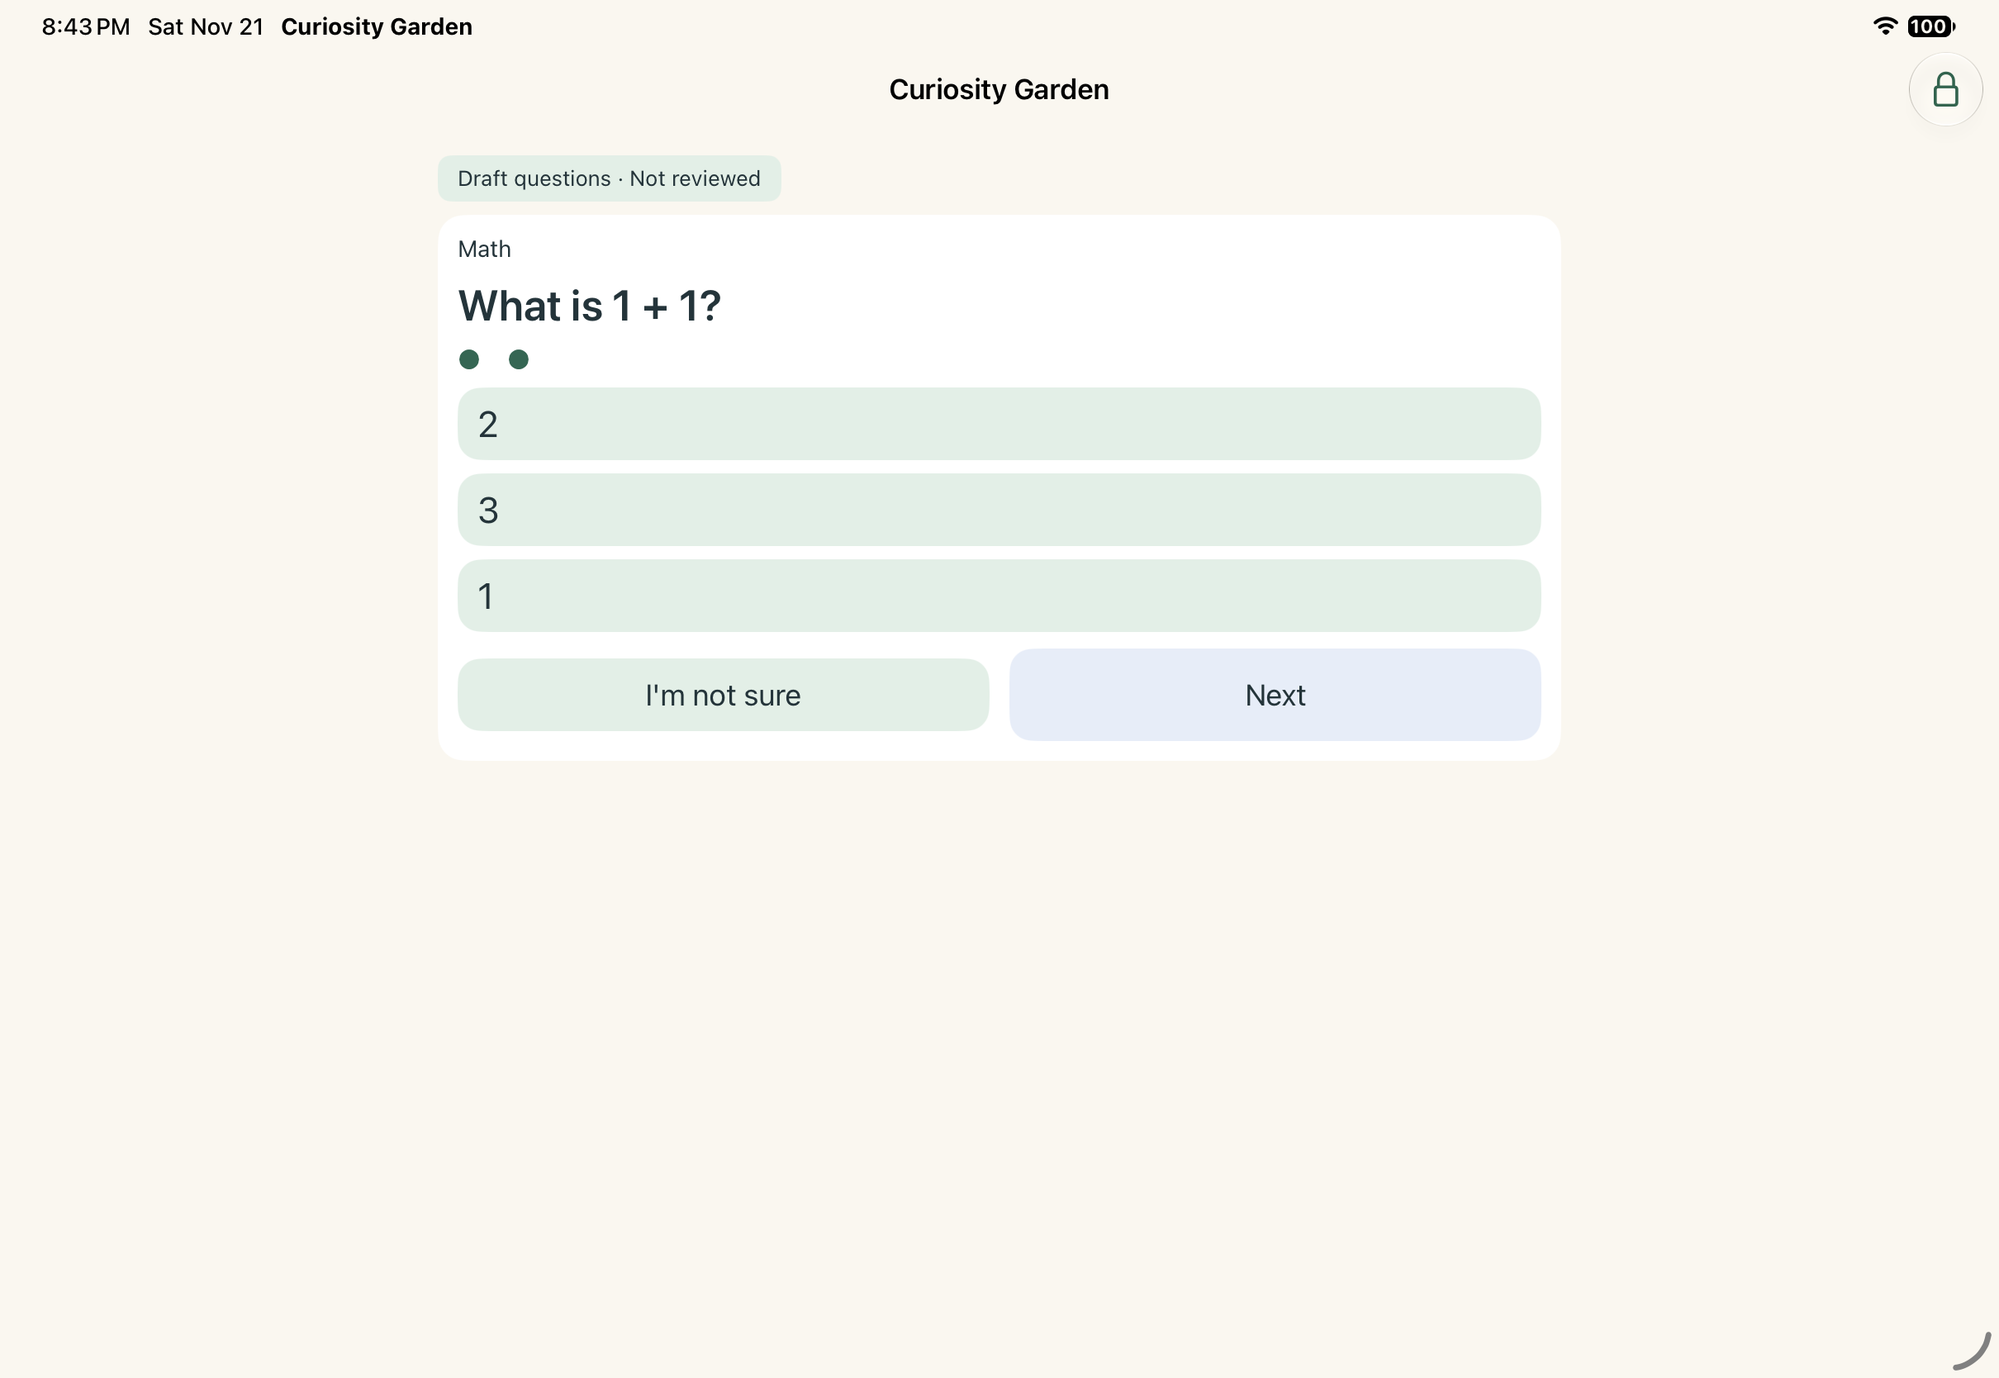
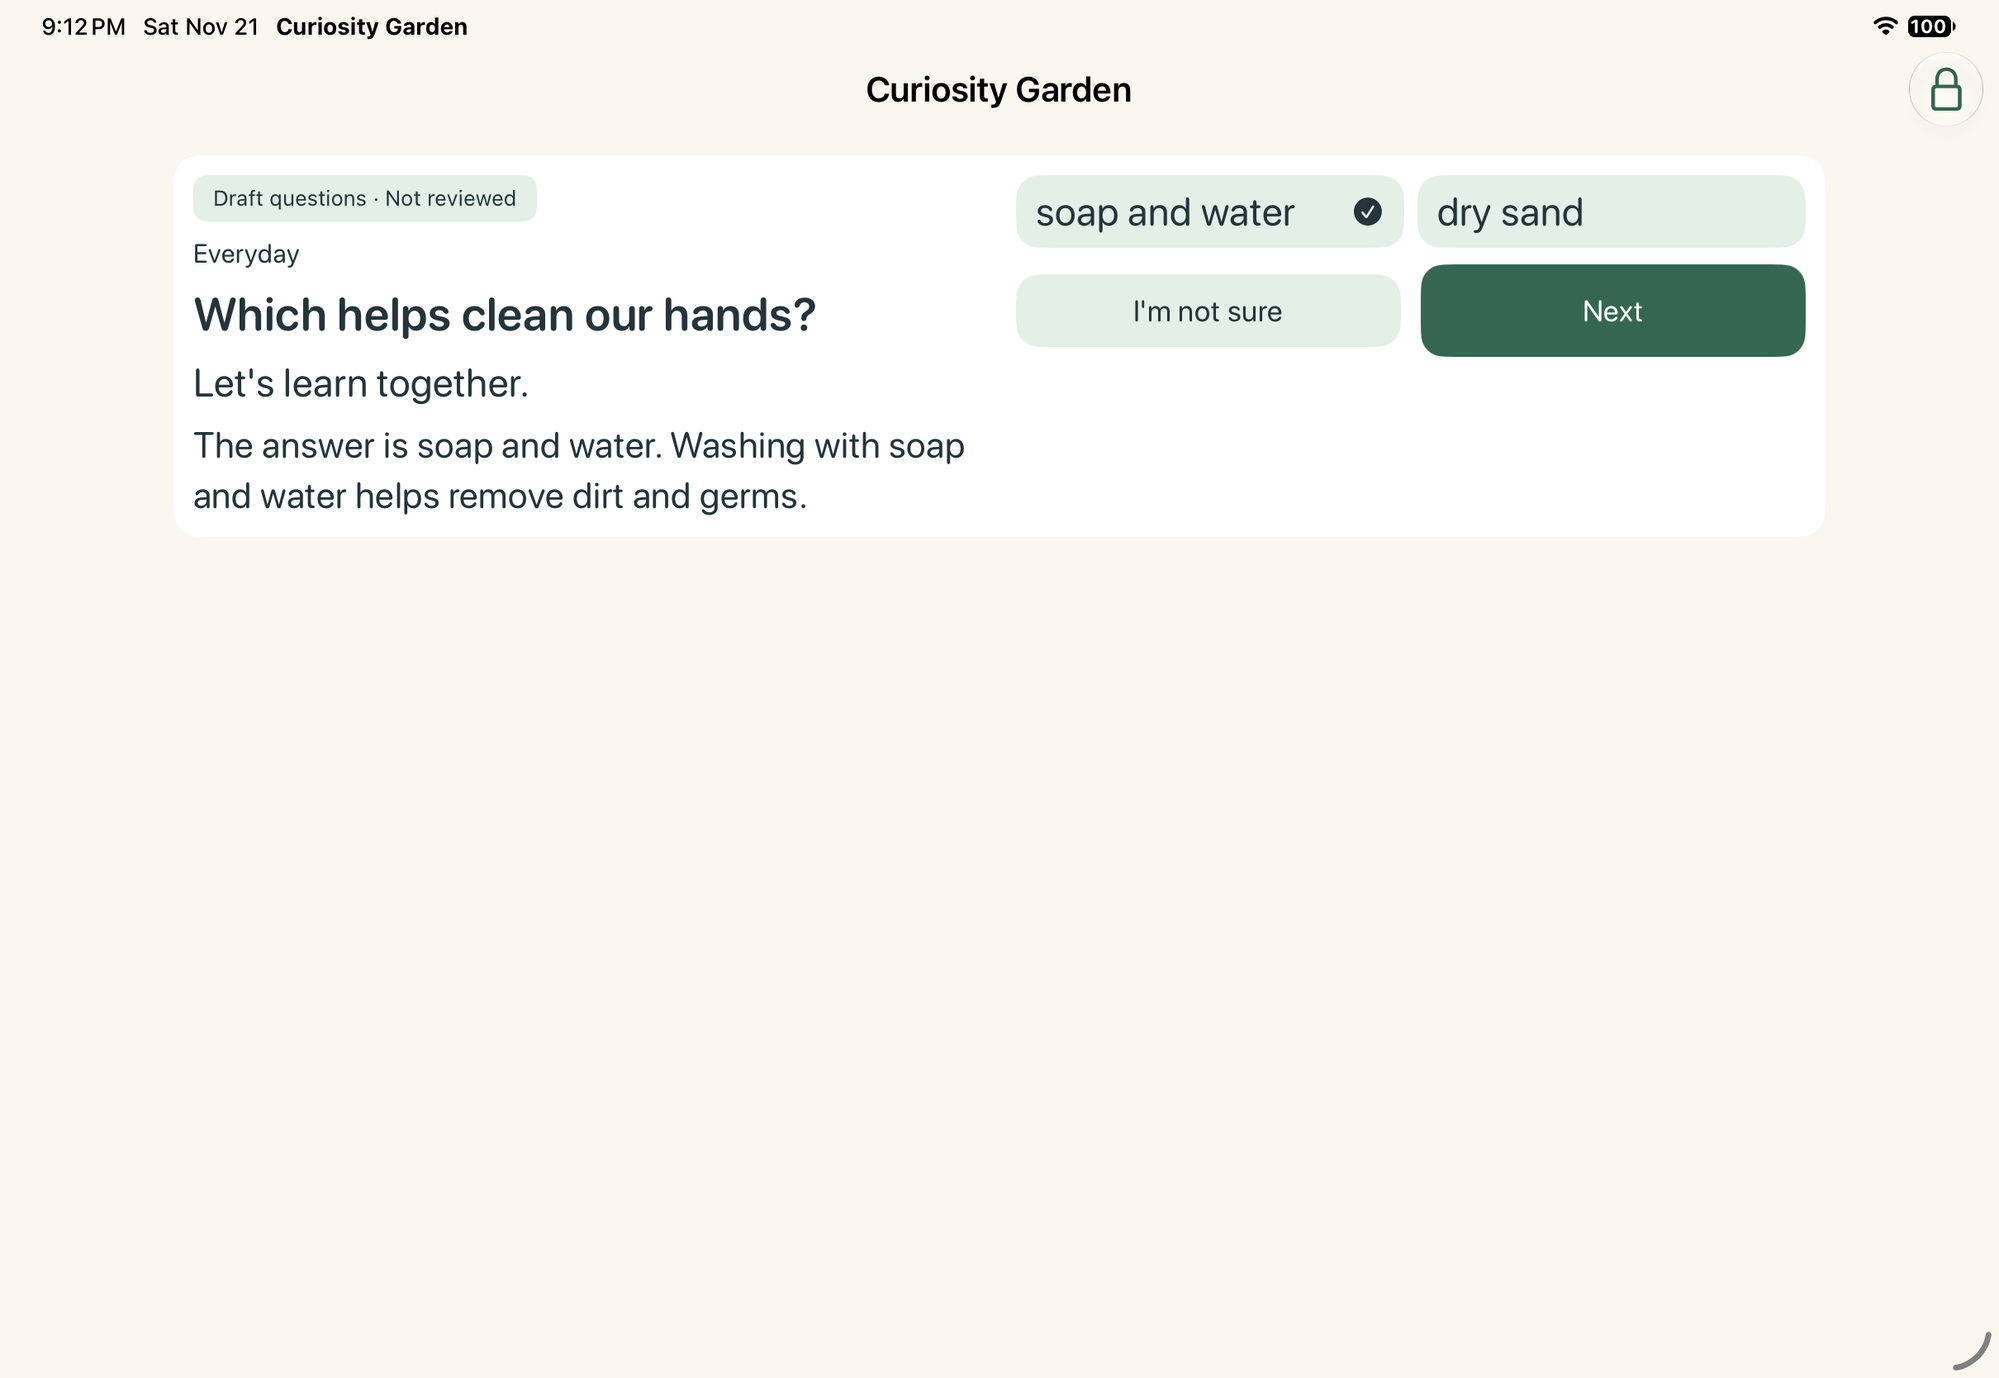
Fix landscape question controls and duplicate practice facts

diff --git a/App/CuriosityGardenApp.swift b/App/CuriosityGardenApp.swift
@@ -53,9 +53,12 @@ struct GardenView: View {
                 if store.error == nil, !store.blocked, !store.recap, let question = store.state.round?.pending {
                     GeometryReader { geometry in
                         ViewThatFits(in: .vertical) {
-                            questionScreen(question, factor: 1)
-                            questionScreen(question, factor: 0.9)
-                            questionScreen(question, factor: 0.8)
+                            questionScreen(question, factor: 1, wide: geometry.size.width > geometry.size.height)
+                            questionScreen(question, factor: 0.9, wide: geometry.size.width > geometry.size.height)
+                            questionScreen(question, factor: 0.8, wide: geometry.size.width > geometry.size.height)
+                            ScrollView {
+                                questionScreen(question, factor: 0.8, wide: geometry.size.width > geometry.size.height)
+                            }
                         }.frame(width: geometry.size.width, height: geometry.size.height, alignment: .top)
                     }.navigationTitle("Curiosity Garden").navigationBarTitleDisplayMode(.inline)
                 } else { standardContent }
@@ -88,15 +91,39 @@ struct GardenView: View {
             }.readingText().frame(maxWidth: 680, alignment: .leading).padding(20).frame(maxWidth: .infinity)
         }
     }
-    private func questionScreen(_ question: Question, factor: Double) -> some View {
+    private var draftBadge: some View {
+        Text("Draft questions · Not reviewed").font(.system(size: 13)).padding(.horizontal, 12).padding(.vertical, 6)
+            .background(Palette.sage, in: RoundedRectangle(cornerRadius: 8))
+    }
+    private func questionScreen(_ question: Question, factor: Double, wide: Bool) -> some View {
         VStack(alignment: .leading, spacing: 8) {
-            if store.allowsDrafts { Text("Draft questions · Not reviewed").font(.system(size: 13)).padding(.horizontal, 12).padding(.vertical, 6).background(Palette.sage, in: RoundedRectangle(cornerRadius: 8)) }
-            questionView(question, factor: factor)
-        }.frame(maxWidth: 680).padding(.horizontal, 12).padding(.vertical, 8)
+            if !wide && store.allowsDrafts { draftBadge }
+            if wide {
+                HStack(alignment: .top, spacing: 20) {
+                    VStack(alignment: .leading, spacing: 10 * factor) {
+                        if store.allowsDrafts { draftBadge }
+                        questionHeading(question, factor: factor)
+                        questionFeedback(question, factor: factor)
+                    }.frame(maxWidth: .infinity, alignment: .leading)
+                    VStack(spacing: 10 * factor) {
+                        answerChoices(question, factor: factor, columns: 2)
+                        questionControls
+                    }.frame(maxWidth: .infinity)
+                }.padding(12).background(.white, in: RoundedRectangle(cornerRadius: 16))
+            } else { questionView(question, factor: factor) }
+        }.frame(maxWidth: wide ? 1000 : 680).padding(.horizontal, 12).padding(.vertical, 8)
             .fixedSize(horizontal: false, vertical: true).frame(maxWidth: .infinity)
             .dynamicTypeSize(...DynamicTypeSize.large)
     }
     private func questionView(_ question: Question, factor: Double) -> some View {
+        VStack(alignment: .leading, spacing: 10 * factor) {
+            questionHeading(question, factor: factor)
+            answerChoices(question, factor: factor, columns: 1)
+            questionFeedback(question, factor: factor)
+            questionControls
+        }.padding(12).background(.white, in: RoundedRectangle(cornerRadius: 16))
+    }
+    private func questionHeading(_ question: Question, factor: Double) -> some View {
         VStack(alignment: .leading, spacing: 10 * factor) {
             Text(question.subject.title).readingText(.note, factor: factor)
             Text(question.prompt).readingText(.question, factor: factor).fixedSize(horizontal: false, vertical: true).accessibilityAddTraits(.isHeader)
@@ -109,33 +136,39 @@ struct GardenView: View {
                     }
                 }.foregroundStyle(Palette.green)
             }
-            VStack(spacing: 8) {
-                ForEach(question.choices.indices, id: \.self) { index in
-                    Button { store.answer(.choice(index)) } label: {
-                        HStack {
-                            Text(question.choices[index]).readingText(.answer, factor: factor).fixedSize(horizontal: false, vertical: true)
-                            Spacer(minLength: 4)
-                            if store.state.round?.response != nil && index == question.correct {
-                                Image(systemName: "checkmark.circle.fill").accessibilityLabel("Correct answer")
-                            }
-                        }.padding(.horizontal, 12).padding(.vertical, 6).frame(maxWidth: .infinity, minHeight: 44, alignment: .leading)
-                    }.buttonStyle(AnswerButtonStyle()).disabled(store.state.round?.response != nil)
-                }
+        }
+    }
+    private func answerChoices(_ question: Question, factor: Double, columns: Int) -> some View {
+        LazyVGrid(columns: Array(repeating: GridItem(.flexible(), spacing: 8), count: columns), spacing: 8) {
+            ForEach(question.choices.indices, id: \.self) { index in
+                Button { store.answer(.choice(index)) } label: {
+                    HStack {
+                        Text(question.choices[index]).readingText(.answer, factor: factor).fixedSize(horizontal: false, vertical: true)
+                        Spacer(minLength: 4)
+                        if store.state.round?.response != nil && index == question.correct {
+                            Image(systemName: "checkmark.circle.fill").accessibilityLabel("Correct answer")
+                        }
+                    }.padding(.horizontal, 12).padding(.vertical, 6).frame(maxWidth: .infinity, minHeight: 44, alignment: .leading)
+                }.buttonStyle(AnswerButtonStyle()).disabled(store.state.round?.response != nil)
             }
-            if let response = store.state.round?.response {
-                Text(response == .choice(question.correct) ? "Yes, that's it." : "Let's learn together.").readingText(.answer, factor: factor)
-                Text("The answer is \(question.choices[question.correct]). \(question.explanation)").readingText(.body, factor: factor).fixedSize(horizontal: false, vertical: true)
+        }
+    }
+    @ViewBuilder private func questionFeedback(_ question: Question, factor: Double) -> some View {
+        if let response = store.state.round?.response {
+            Text(response == .choice(question.correct) ? "Yes, that's it." : "Let's learn together.").readingText(.answer, factor: factor)
+            Text("The answer is \(question.choices[question.correct]). \(question.explanation)").readingText(.body, factor: factor).fixedSize(horizontal: false, vertical: true)
+        }
+    }
+    private var questionControls: some View {
+        HStack(spacing: 12) {
+            Button { store.answer(.unsure) } label: {
+                Text("I'm not sure").frame(maxWidth: .infinity, minHeight: 44)
             }
-            HStack(spacing: 12) {
-                Button { store.answer(.unsure) } label: {
-                    Text("I'm not sure").frame(maxWidth: .infinity, minHeight: 44)
-                }
-                    .buttonStyle(AnswerButtonStyle()).disabled(store.state.round?.response != nil)
-                Button { store.next() } label: {
-                    Text("Next").frame(maxWidth: .infinity, minHeight: 44)
-                }.buttonStyle(NextButtonStyle()).disabled(store.state.round?.response == nil)
-            }.font(.system(size: 18, design: store.state.reading.font == .rounded ? .rounded : .default))
-        }.padding(12).background(.white, in: RoundedRectangle(cornerRadius: 16))
+                .buttonStyle(AnswerButtonStyle()).disabled(store.state.round?.response != nil)
+            Button { store.next() } label: {
+                Text("Next").frame(maxWidth: .infinity, minHeight: 44)
+            }.buttonStyle(NextButtonStyle()).disabled(store.state.round?.response == nil)
+        }.font(.system(size: 18, design: store.state.reading.font == .rounded ? .rounded : .default))
     }
     private var recap: some View {
         VStack(alignment: .leading, spacing: 20) {

diff --git a/Tests/GardenCoreTests/ReadingAndReportTests.swift b/Tests/GardenCoreTests/ReadingAndReportTests.swift
@@ -57,6 +57,17 @@ final class ReadingAndReportTests: XCTestCase {
         XCTAssertEqual(SubjectReport.playTimeText(60), "1 minute")
         XCTAssertEqual(SubjectReport.playTimeText(120), "2 minutes")
     }
+    func testPracticeFactsAreUniqueAndStableWhenDatesMatch() {
+        var first = record(id: "a", correct: false, date: now)
+        var duplicate = record(id: "b", correct: false, date: now)
+        let other = record(id: "c", correct: false, date: now)
+        first.question.explanation = "Shared fact"
+        duplicate.question.explanation = "Shared fact"
+        for history in [[first, duplicate, other], [other, duplicate, first]] {
+            let report = SubjectReport(subject: .math, level: 0, history: history)
+            XCTAssertEqual(report.practiceFacts, ["Shared fact", "Fact c"])
+        }
+    }
     func testPracticeFactsUseLatestAttemptAndRemainSubjectSpecific() {
         let history = [record(id: "resolved", correct: false, date: now - 5), record(id: "resolved", correct: true, date: now), record(id: "old", correct: false, date: now - 4), record(id: "middle", correct: false, date: now - 3), record(id: "latest", correct: false, date: now - 2), record(id: "other", correct: false, date: now, subject: .science)]
         let report = SubjectReport(subject: .math, level: 0, history: history)

diff --git a/Sources/GardenCore/Reports.swift b/Sources/GardenCore/Reports.swift
@@ -24,7 +24,15 @@ public struct SubjectReport: Sendable {
     public var needsPractice: Bool { records.suffix(5).contains { !$0.correct } }
     public var practiceFacts: [String] {
         let latest = Dictionary(grouping: records, by: { $0.question.id }).values.compactMap { $0.last }
-        return latest.filter { !$0.correct }.sorted { $0.date > $1.date }.prefix(2).map { $0.question.explanation }
+        let missed = latest.filter { !$0.correct }.sorted {
+            $0.date == $1.date ? $0.question.id < $1.question.id : $0.date > $1.date
+        }
+        var seen = Set<String>()
+        let unique = missed.compactMap { record -> String? in
+            let fact = record.question.explanation
+            return seen.insert(fact).inserted ? fact : nil
+        }
+        return Array(unique.prefix(2))
     }
     public static func playTimeText(_ seconds: TimeInterval) -> String {
         if seconds <= 0 { return "No play recorded" }

diff --git a/docs/IMPLEMENTATION_DECISIONS.md b/docs/IMPLEMENTATION_DECISIONS.md
@@ -16,7 +16,7 @@ The README, MVP_REQUIREMENTS, and OPEN_DECISIONS remain the source of truth. Thi
 
 ## Reading and parent insights follow-up
 
-- Child reading defaults use the native system sans serif; parents can choose the rounded system design. Large/Extra large use question sizes 26/28 pt, answers 22/24 pt, and explanation/recap text 20/22 pt. The owner's later instruction caps scaling on the question screen so all choices, “I'm not sure,” and Next fit together. Layout selects a denser variant when vertical space is limited. Next stays visible and disabled until a response is recorded. Answer buttons remain at least 44 pt high and retain dark text during feedback.
+- Child reading defaults use the native system sans serif; parents can choose the rounded system design. Large/Extra large use question sizes 26/28 pt, answers 22/24 pt, and explanation/recap text 20/22 pt. The owner's later instruction caps scaling on the question screen so all choices, “I'm not sure,” and Next fit together. Wide windows place the question and explanation beside a two-column answer grid; portrait stacks them. Layout selects a denser variant when vertical space is limited. A final scroll fallback keeps future longer content accessible in unusually constrained windows. Next stays visible and disabled until a response is recorded. Answer buttons remain at least 44 pt high and retain dark text during feedback.
 - Font selection is a family comfort preference, not a claim that a special font improves reading. The [British Dyslexia Association style guide](https://cdn.bdadyslexia.org.uk/uploads/documents/Advice/style-guide/BDA-Style-Guide-2023.pdf) recommends clear sans-serif type and spacing. A [study of Dyslexie in children](https://pubmed.ncbi.nlm.nih.gov/29204931/) found no advantage over Arial. Native fonts avoid a new font dependency and work offline.
 - Reading preferences are saved only through the unlocked parent area. Older saved profiles use the new defaults without losing learning or timing state.
 - Parent reports offer 7, 30, and 90 calendar days including today, in the device's calendar/time zone. Accuracy, trend, detailed history, and unresolved practice facts share the selected period. A daily foreground-time ledger starts with this update; older lifetime time is not invented into date buckets. A checkpoint crossing midnight is attributed to its ending day, so daily values are approximate to checkpoint granularity. Daily summaries are retained for 90 calendar days; detailed answers retain the existing 90-day policy.

diff --git a/docs/VALIDATION.md b/docs/VALIDATION.md
@@ -43,3 +43,9 @@ New regression tests cover saved font/size choices, protected preference updates
 The question interface now keeps all choices, I'm not sure, and Next visible together; Next is disabled before answering. Font sizes are deliberately capped per the owner's screen-fit request. Parent reports remain scrollable. Device checks include the largest simulator Dynamic Type setting, Extra large plus rounded preferences, feedback contrast, and iPad layout. This is not a claim of a completed physical-device or VoiceOver audit.
 
 Local follow-up results: 34 Swift tests and all six coverage-guard tests pass. Production logic coverage is 450/464 executable lines (96.98%); every file remains above 95%. The final compact layout was checked on iPhone 18 Pro at the largest device Dynamic Type setting plus Extra large/rounded in-app preferences, and on iPad Pro 11-inch in landscape and portrait. All choices, I'm not sure, Next, and feedback were visible together in these checks. Font choices persisted across relaunch. Report-period controls and practice summaries were checked with synthetic activity; the new PIN-change paths are covered by isolated Keychain tests. The placeholder JSON was not changed.
+
+## PR #3 review corrections
+
+A fresh review reproduced two defects: shared explanations produced duplicate practice facts (and duplicate SwiftUI row identities), and iPhone landscape clipped feedback and Next below the fixed question canvas. Practice facts are now unique with deterministic ordering for equal timestamps. A regression test failed on the original implementation and passes with the correction. Wide windows now use a side-by-side question/feedback and answer-grid layout, with a scroll fallback for content that exceeds even the compact variant.
+
+The suite now passes 35 Swift tests and six coverage-guard tests. Fresh production logic coverage is 463/477 executable lines (**97.06%**), including Reports at 100%; every file exceeds 95%. Debug and Release generic simulator builds pass. The corrected iPhone layout was checked before and after answering in landscape, including wrapped choices and feedback, and in portrait at maximum device Dynamic Type with a persisted Extra large/rounded synthetic fixture. The updated iPad layout was also checked in both orientations with these maximum settings. These controls fit without scrolling. The README includes new iPhone and iPad landscape captures. The bundled draft questions remain unchanged.

diff --git a/README.md b/README.md
@@ -6,11 +6,13 @@ A calm, offline trivia app being designed for children in kindergarten through g
 
 ## Screenshots
 
-Real simulator captures using synthetic progress and **draft placeholder questions**. The iPhone capture uses Extra large in-app text at the largest device text setting; the question, choices, explanation, I'm not sure, and Next fit together.
+Real simulator captures using synthetic progress and **draft placeholder questions**. The iPhone captures use Extra large in-app text at the largest device text setting; the question, choices, explanation, I'm not sure, and Next fit together in portrait and landscape.
 
 <img src="docs/screenshots/iphone-reading-maximum.png" width="300" alt="Compact iPhone question with all choices, feedback, I'm not sure, and Next visible at the largest text setting" />
 
-<img src="docs/screenshots/ipad-landscape.png" width="760" alt="iPad landscape with every question choice, I'm not sure, and disabled Next visible together" />
+<img src="docs/screenshots/iphone-landscape.png" width="760" alt="iPhone landscape with wrapped choices, explanation, I'm not sure, and Next visible at the largest text setting" />
+
+<img src="docs/screenshots/ipad-landscape.png" width="760" alt="iPad landscape with choices, explanation, I'm not sure, and Next visible together" />
 
 <img src="docs/screenshots/ipad-explanation.png" width="400" alt="iPad portrait with answer feedback and both controls visible together" />
 
